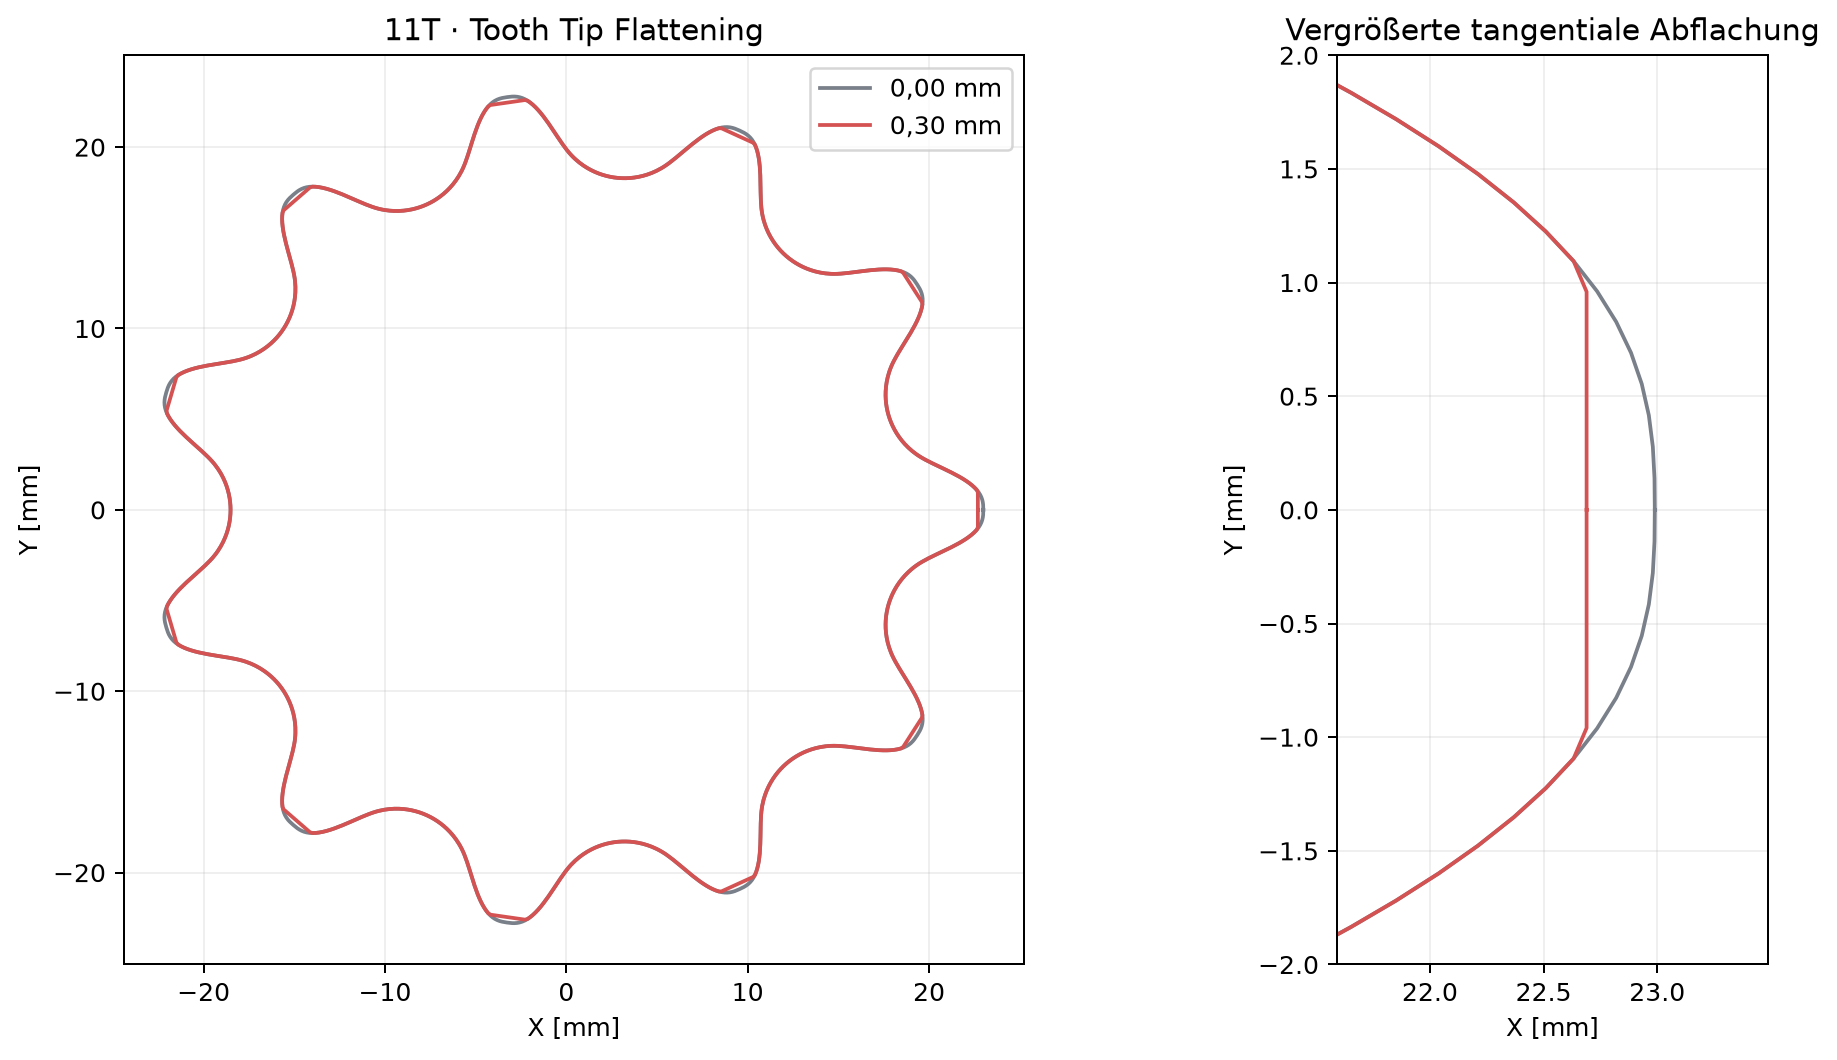
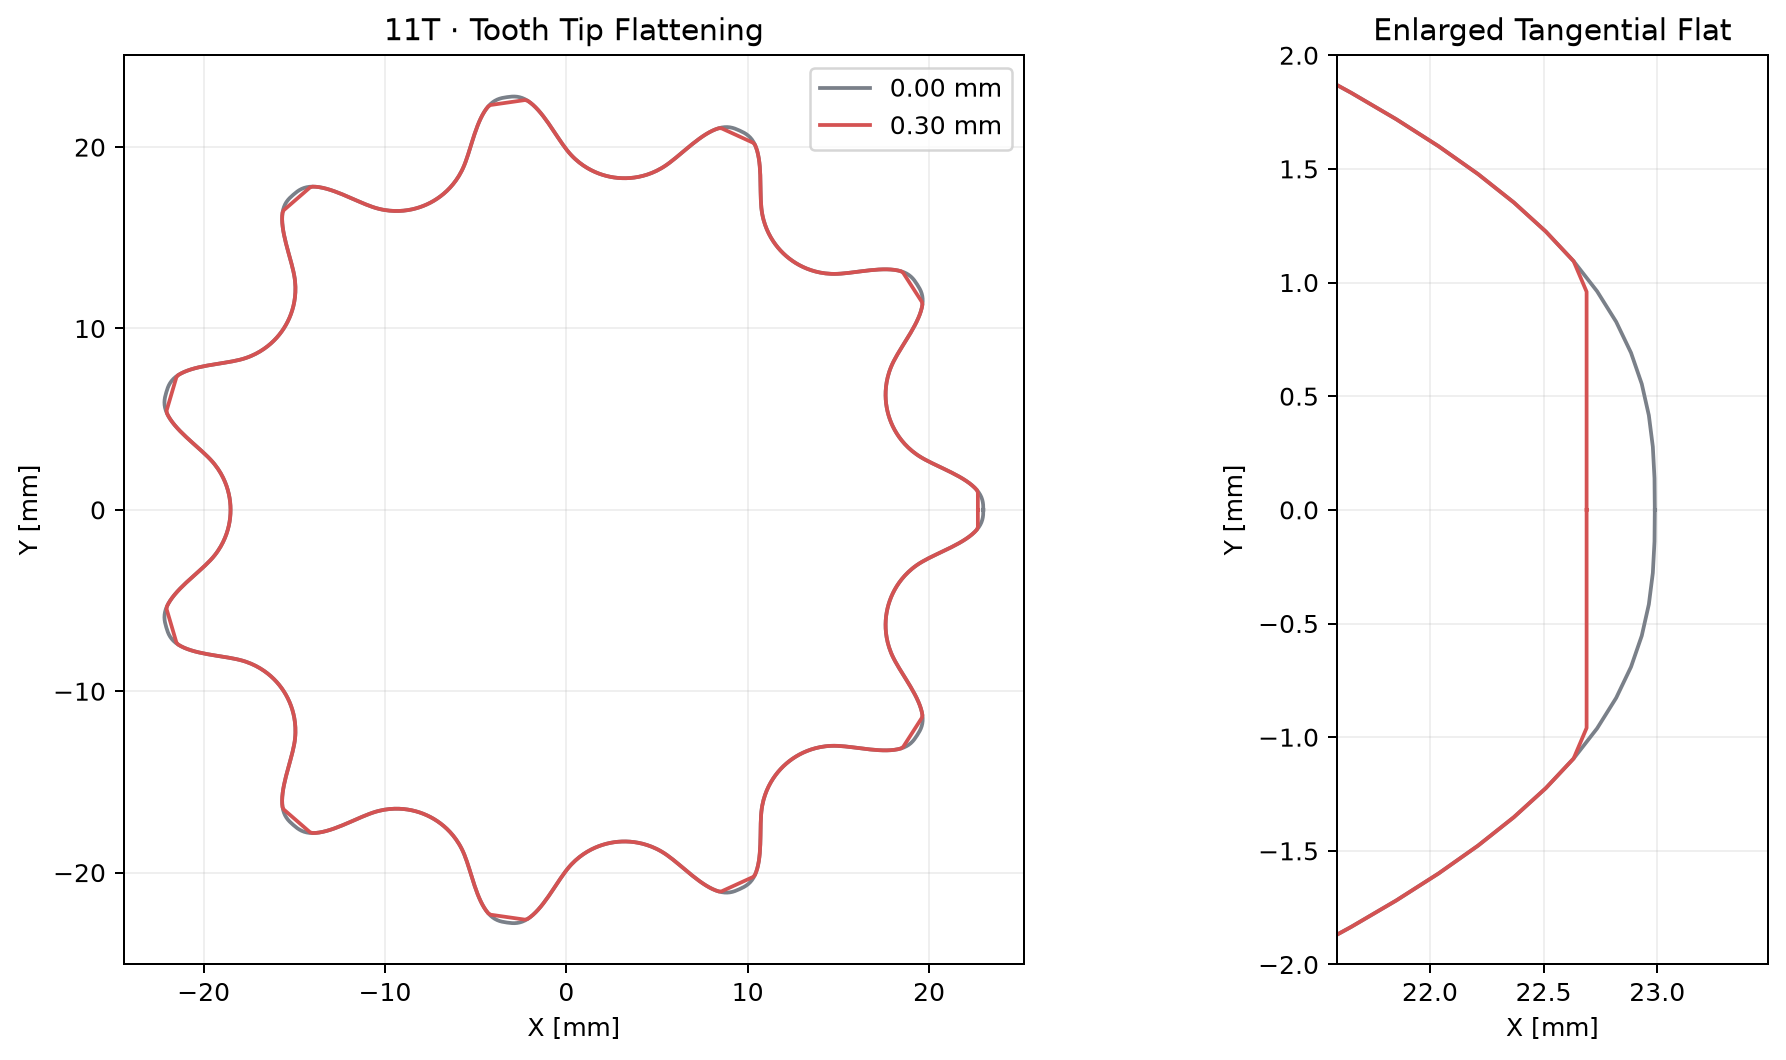
Translate public documentation to English

diff --git a/tools/plot_tip_flattening.py b/tools/plot_tip_flattening.py
@@ -29,15 +29,15 @@ flattened_view = rotate(flattened, rotation)
 
 fig, axes = plt.subplots(1, 2, figsize=(12, 6))
 for axis in axes:
-    axis.plot(rounded_view[:, 0], rounded_view[:, 1], color="#7a8089", label="0,00 mm")
-    axis.plot(flattened_view[:, 0], flattened_view[:, 1], color="#d45252", label="0,30 mm")
+    axis.plot(rounded_view[:, 0], rounded_view[:, 1], color="#7a8089", label="0.00 mm")
+    axis.plot(flattened_view[:, 0], flattened_view[:, 1], color="#d45252", label="0.30 mm")
     axis.set_aspect("equal")
     axis.grid(True, alpha=0.2)
 axes[0].set_title("11T · Tooth Tip Flattening")
 axes[0].set_xlabel("X [mm]")
 axes[0].set_ylabel("Y [mm]")
 axes[0].legend()
-axes[1].set_title("Vergrößerte tangentiale Abflachung")
+axes[1].set_title("Enlarged Tangential Flat")
 axes[1].set_xlim(dimensions["flat_tip_radius_mm"] - 1.1, dimensions["tip_radius_mm"] + 0.5)
 axes[1].set_ylim(-2.0, 2.0)
 axes[1].set_xlabel("X [mm]")

diff --git a/tools/plot_tip_pitch.py b/tools/plot_tip_pitch.py
@@ -45,7 +45,7 @@ axis = fig.add_subplot(1, 2, 1)
 axis.plot(baseline[:, 0], baseline[:, 1], color="#777d86", label="Pitch 0°")
 axis.plot(bottom[:, 0], bottom[:, 1], color="#d45252", label="Pitch +6°")
 axis.set_aspect("equal")
-axis.set_title("11T · Tooth Tip Pitch · Draufsicht")
+axis.set_title("11T · Tooth Tip Pitch · Top View")
 axis.legend()
 axis.grid(True, alpha=0.2)
 axis.set_xlabel("X [mm]")
@@ -62,7 +62,7 @@ for index in range(0, count, 4):
     )
 axis3d.plot(bottom[:, 0], bottom[:, 1], bottom[:, 2], color="#3676c5")
 axis3d.plot(top[:, 0], top[:, 1], top[:, 2], color="#d45252")
-axis3d.set_title("Oben und unten gleichgerichtet")
+axis3d.set_title("Upper and lower contours aligned")
 axis3d.set_xlabel("X [mm]")
 axis3d.set_ylabel("Y [mm]")
 axis3d.set_zlabel("Z [mm]")

diff --git a/README.md b/README.md
@@ -1,73 +1,73 @@
 # Bike Chain Sprocket Generator – Blender Add-on
 
-Parametrischer Blender-Generator für Fahrrad- und Motorrad-Kettenräder ab fünf Zähnen.
+A parametric Blender generator for bicycle and motorcycle chain sprockets with five or more teeth.
 
-[**Aktuelles Add-on als ZIP herunterladen**](https://github.com/EricRorich/BikeChainWheel/releases/latest/download/bike_chain_sprocket.zip)
+[**Download the latest add-on ZIP**](https://github.com/EricRorich/BikeChainWheel/releases/latest/download/bike_chain_sprocket.zip)
 
-![Übersicht der Fahrrad- und Motorradketten-Presets](docs/chain-presets.png)
+![Overview of bicycle and motorcycle chain presets](docs/chain-presets.png)
 
-Dieses Blender-Add-on erzeugt parametrische Kettenräder für Fahrradketten, einschließlich sehr kleiner Varianten mit **5 bis 11 Zähnen**. Anders als Blenders allgemeiner Gear-Generator basiert das Zahnprofil auf der Kettengeometrie:
+Unlike Blender's general-purpose gear generator, this add-on builds sprockets from roller-chain geometry:
 
-- Teilungskreis aus Kettenteilung und Zahnzahl
-- kreisförmige Rollenmulden für die Kettenrollen
-- C2-stetige quintische Hermite-Übergänge von den Mulden zu den Zahnspitzen
-- gleichgerichtete tangentiale Verformung der Zahnspitzen
-- optional gerade, tangential abgeflachte Zahnspitzen
-- geschlossener, manifold Mesh-Körper mit mittiger Bohrung
-- optionale, nicht-destruktive Kantenfase
+- pitch circle calculated from chain pitch and tooth count
+- circular roller seats
+- C2-continuous quintic Hermite transitions from roller seats to tooth tips
+- directional tooth-tip pitch with matching upper and lower contours
+- optional straight tangential tooth-tip flattening
+- closed manifold mesh with a circular center bore
+- optional non-destructive edge bevel
 
 ## Installation
 
-1. Unter [Releases](https://github.com/EricRorich/BikeChainWheel/releases) die Datei `bike_chain_sprocket.zip` herunterladen.
-2. In Blender **Edit → Preferences → Add-ons** öffnen.
-3. Je nach Blender-Version **Install…** oder **Install from Disk…** wählen.
-4. `bike_chain_sprocket.zip` auswählen und das Add-on aktivieren.
-5. Im 3D Viewport: **Shift+A → Mesh → Bicycle Chain Sprocket**.
-6. Parameter direkt im Erzeugungsdialog oder über **F9 / Adjust Last Operation** ändern.
+1. Download `bike_chain_sprocket.zip` from the [Releases page](https://github.com/EricRorich/BikeChainWheel/releases).
+2. Open **Edit → Preferences → Add-ons** in Blender.
+3. Choose **Install…** or **Install from Disk…**, depending on your Blender version.
+4. Select `bike_chain_sprocket.zip` and enable the add-on.
+5. In the 3D Viewport, choose **Shift+A → Mesh → Bicycle Chain Sprocket**.
+6. Adjust the parameters during creation or reopen them with **F9 / Adjust Last Operation**.
 
 ## Chain Size Presets
 
-`Chain Size Preset` lädt Kettenteilung, Rollendurchmesser und eine konservative Ausgangsdicke für das Ritzel. Die vorgeschlagene Ritzeldicke liegt bewusst etwas unter der nominalen inneren Kettenbreite, damit seitliches Spiel bleibt.
+`Chain Size Preset` loads chain pitch, roller diameter, and a conservative starting thickness for the sprocket. The suggested sprocket thickness is intentionally smaller than the nominal chain inner width to preserve lateral clearance.
 
-| Preset | Pitch | Roller | vorgeschlagene Ritzeldicke |
+| Preset | Pitch | Roller | Suggested sprocket thickness |
 |---|---:|---:|---:|
-| Bicycle 1/8" – Single-speed/BMX | 12,700 mm | 7,750 mm | 2,80 mm |
-| Bicycle 3/32" – Derailleur | 12,700 mm | 7,750 mm | 2,00 mm |
-| Bicycle 11/128" – Narrow 10–12 speed | 12,700 mm | 7,750 mm | 1,80 mm |
-| Motorcycle 415 | 12,700 mm | 7,770 mm | 4,30 mm |
-| Motorcycle 420 | 12,700 mm | 7,770 mm | 5,80 mm |
-| Motorcycle 428 | 12,700 mm | 8,510 mm | 7,30 mm |
-| Motorcycle 520 | 15,875 mm | 10,160 mm | 5,80 mm |
-| Motorcycle 525 | 15,875 mm | 10,160 mm | 7,30 mm |
-| Motorcycle 530 | 15,875 mm | 10,160 mm | 8,80 mm |
-| Custom | frei | frei | frei |
+| Bicycle 1/8" – Single-speed/BMX | 12.700 mm | 7.750 mm | 2.80 mm |
+| Bicycle 3/32" – Derailleur | 12.700 mm | 7.750 mm | 2.00 mm |
+| Bicycle 11/128" – Narrow 10–12 speed | 12.700 mm | 7.750 mm | 1.80 mm |
+| Motorcycle 415 | 12.700 mm | 7.770 mm | 4.30 mm |
+| Motorcycle 420 | 12.700 mm | 7.770 mm | 5.80 mm |
+| Motorcycle 428 | 12.700 mm | 8.510 mm | 7.30 mm |
+| Motorcycle 520 | 15.875 mm | 10.160 mm | 5.80 mm |
+| Motorcycle 525 | 15.875 mm | 10.160 mm | 7.30 mm |
+| Motorcycle 530 | 15.875 mm | 10.160 mm | 8.80 mm |
+| Custom | user-defined | user-defined | user-defined |
 
-Nach Auswahl eines Presets bleiben die einzelnen Werte editierbar. Für eine konkrete Kette müssen vor Fertigung immer das Datenblatt des Herstellers und ein reales Kettenmuster geprüft werden; besonders Rollen- und Innenbreiten können durch Baureihe, Dichtungsart und Hersteller leicht variieren.
+All individual values remain editable after loading a preset. Before manufacturing, always verify the dimensions against the exact chain manufacturer's data sheet and a physical chain sample. Roller and inner widths may vary slightly by manufacturer, product series, and O-ring/X-ring construction.
 
-![Zahnzahlen 5T bis 11T](docs/teeth-5-to-11.png)
+![Tooth counts from 5T through 11T](docs/teeth-5-to-11.png)
 
-## Sinnvolle Startwerte für Fahrradketten
+## Recommended Starting Values
 
-| Parameter | Startwert | Bedeutung |
+| Parameter | Default | Meaning |
 |---|---:|---|
-| Teeth | 5 | geometrisch unterstützt ab 5; Warnung bis 8T |
-| Chain Pitch | 12,7 mm | Standard-Fahrradkette: 1/2 Zoll |
-| Roller Diameter | 7,75 mm | typischer Rollendurchmesser |
-| Roller Clearance | 0,15 mm | zusätzliches radiales Spiel |
-| Tooth Height | 0,45 mm | Zahnspitze über dem Teilkreis |
-| Tooth Tip Pitch | 1,5° | Ober- und Unterseite gemeinsam in eine Richtung |
-| Tooth Tip Flattening | 0,0 mm | radiale Tiefe der geraden Abflachung |
-| Thickness | 2,0 mm | an Ketteninnenbreite und Material anpassen |
-| Bore Diameter | 5,0 mm | runde Mittelbohrung |
-| Scale | 1,0 | gleichmäßige Skalierung aller Maße |
-| Profile Resolution | 32 | Punkte pro Zahn |
-| Edge Bevel | 0,10 mm | nicht-destruktiver Bevel Modifier |
+| Teeth | 5 | Geometric minimum; warning shown through 8T |
+| Chain Pitch | 12.7 mm | Standard 1/2-inch bicycle chain pitch |
+| Roller Diameter | 7.75 mm | Typical bicycle-chain roller diameter |
+| Roller Clearance | 0.15 mm | Additional radial clearance around each roller |
+| Tooth Height | 0.45 mm | Tooth tip above the pitch circle |
+| Tooth Tip Pitch | 1.5° | Upper and lower contours move together in one direction |
+| Tooth Tip Flattening | 0.0 mm | Radial depth of the straight flat cap |
+| Thickness | 2.0 mm | Match to chain inner width and manufacturing clearance |
+| Bore Diameter | 5.0 mm | Circular center bore |
+| Scale | 1.0 | Uniform scale for every generated dimension |
+| Profile Resolution | 32 | Profile vertices per tooth |
+| Edge Bevel | 0.10 mm | Non-destructive Bevel modifier |
 
-Die mitgelieferte Referenzkassette hat beim 11-Zahn-Ritzel ungefähr 45,98 mm Außendurchmesser. Das Add-on erzeugt mit den Standardwerten ebenfalls etwa **45,98 mm**; Zahnzahl, Teilung und Rollensitz sind dabei vollständig parametrisch.
+The supplied reference cassette has an outside diameter of approximately 45.98 mm for its 11-tooth sprocket. The add-on produces approximately **45.98 mm** with the default 11T geometry.
 
-## Ausgabedaten
+## Generated Object Data
 
-Das Objekt wird in realen metrischen Abmessungen erzeugt. Millimeterwerte werden unter Berücksichtigung von Blenders `Unit Scale` in Blender-Einheiten umgerechnet. Zusätzlich speichert das Objekt folgende Custom Properties:
+The mesh is generated at real metric dimensions and respects Blender's `Unit Scale`. The object stores these custom properties:
 
 - `teeth`
 - `chain_preset`
@@ -80,27 +80,38 @@ Das Objekt wird in realen metrischen Abmessungen erzeugt. Millimeterwerte werden
 - `outside_diameter_mm`
 - `profile_type`
 
-## Wichtige Hinweise
+## Tooth-Tip Controls
 
-- 5–8 Zähne verursachen extreme Kettengelenkwinkel und einen sehr starken Polygoneffekt. Dies ist nur das geometrisch unterstützte Minimum, nicht die Empfehlung für einen normalen Fahrradantrieb. Blender zeigt dafür eine Warnung an.
-- `Tooth Tip Pitch` verschiebt Ober- und Unterseite jeder Zahnspitze gemeinsam in dieselbe tangentiale Richtung. Die Zahnflanken werden dadurch leicht asymmetrisch, während die kreisförmigen Rollenmulden unverändert bleiben. Positive und negative Werte wechseln die Richtung.
+### Tooth Tip Pitch
+
+`Tooth Tip Pitch` shifts the upper and lower contour of every tooth tip together in the same tangential direction. This produces slightly asymmetric tooth flanks while leaving the circular roller seats unchanged. Positive and negative values reverse the direction.
 
 ![Tooth Tip Pitch](docs/tooth-tip-pitch.png)
 
-- `Tooth Tip Flattening` schneidet die runde Spitze um den eingegebenen Millimeterwert zurück. Die entstehende Kante ist eine echte gerade Tangentialfläche. `0,0 mm` deaktiviert die Abflachung; etwa `0,15–0,30 mm` ist ein sinnvoller Startbereich.
+### Tooth Tip Flattening
+
+`Tooth Tip Flattening` trims the rounded tip by the entered radial amount. The resulting cap is a true straight tangent line rather than a constant-radius arc. `0.0 mm` disables flattening; approximately `0.15–0.30 mm` is a useful starting range.
 
 ![Tooth Tip Flattening](docs/tooth-tip-flattening.png)
-- `Scale` skaliert auch Kettenteilung, Rollensitze, Bohrung, Dicke und Bevel. Für eine reale 1/2-Zoll-Fahrradkette muss der Wert normalerweise `1,0` bleiben; andere Werte sind für Miniaturen, Prototypen oder komplett mitskalierte Ketten gedacht.
-- Das Add-on bildet keine Schalthilfen, asymmetrischen Zahnkürzungen oder Shimano/SRAM-Kassettenverzahnungen nach. Diese Details der STEP-Referenz sind für ein einfaches einzelnes Kleinritzel nicht erforderlich.
-- Die Mittelaufnahme ist absichtlich eine frei einstellbare runde Bohrung. Spezielle Wellenprofile können anschließend separat modelliert oder per Boolean ausgeschnitten werden.
-- Vor Fertigung oder Belastungseinsatz müssen Kettenbreite, Toleranzen, Material, Achsaufnahme und Festigkeit geprüft werden.
 
-## Entwicklungstest
+## Important Notes
 
-Im Projektordner wurde das Add-on mit Blenders Python-API getestet:
+- Sprockets with 5–8 teeth cause extreme chain articulation and strong polygonal action. Five teeth is only the geometric minimum supported by the generator, not a recommendation for a normal bicycle or motorcycle drivetrain.
+- `Scale` also scales chain pitch, roller seats, bore, thickness, flattening, and bevel. Keep it at `1.0` for a real chain unless the entire mechanism is scaled.
+- The add-on does not reproduce proprietary shifting ramps, asymmetric shortened teeth, or Shimano/SRAM cassette spline interfaces.
+- The center mount is intentionally a configurable circular bore. Add specialized shaft or spline profiles separately.
+- Verify chain width, tolerances, material, mounting geometry, tooth strength, and the exact manufacturer specification before manufacturing or load-bearing use.
+
+## Development Test
+
+Run the Blender API test suite from the repository root:
 
 ```bash
 blender --background --python tests/run_blender_tests.py
 ```
 
-Der Test registriert das Add-on, erzeugt 5T bis 11T und prüft zusätzlich alle neun Fahrrad-/Motorrad-Presets samt `Custom`, geschlossene Kanten, positive Volumenorientierung, Soll-Außendurchmesser, exakte Rollensitze, `Unit Scale`, Gesamt-`Scale`, 6° `Tooth Tip Pitch`, eine echte gerade 0,30-mm-Abflachung, den ausgewerteten Bevel Modifier sowie die Ablehnung zu großer Bohrungen.
+The suite registers the add-on and verifies 5T–11T generation, all nine bicycle/motorcycle presets and Custom mode, manifold topology, positive volume orientation, target outside diameters, exact roller seats, Blender `Unit Scale`, uniform `Scale`, 6° directional tooth-tip pitch, a true straight 0.30 mm tip flattening, the evaluated Bevel modifier, and rejection of oversized bores.
+
+## License
+
+This project is licensed under the **GNU General Public License v3.0 or later**. See [LICENSE](LICENSE).
